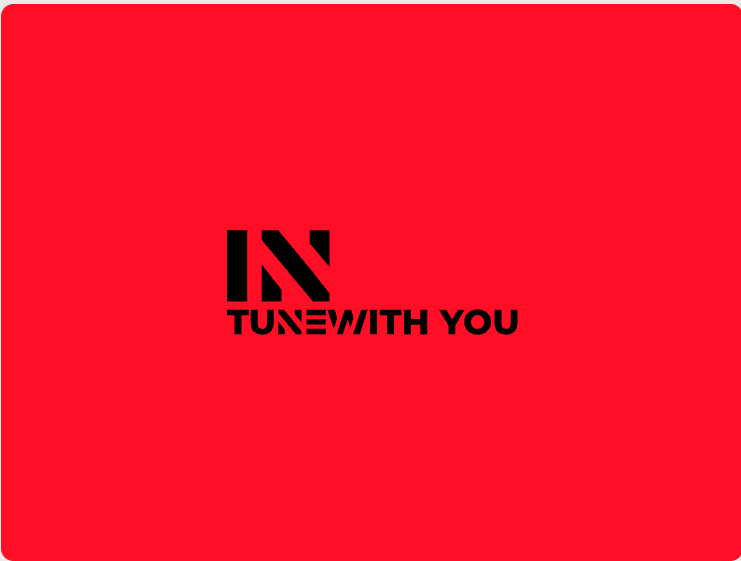
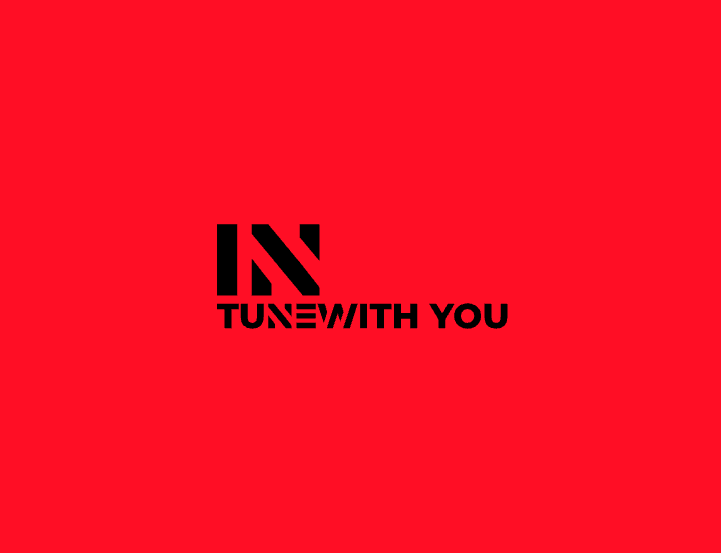
Add header element

diff --git a/style.css b/style.css
@@ -2,23 +2,39 @@
 
 * {
     box-sizing: border-box;
-    padding: 0;
-    margin: 0;
-    font-family: Montserrat;
+    padding: 0%;
+    margin: 0%;
+    
 
 }
 body {
     background: #ff0e25;
-}
-a {
-    text-decoration: none;
-    color: inherit;
-}
-nav {
+    width: 100%;
+    height: 100vh;
+    font-family: 'Montserrat' sans-serif;
     display: flex;
     align-items: center;
-    justify-content: space-between;
-    background: #ff0e25;
-    padding: 20px 20px;
-    color: #ff0e25;
+    justify-content: center;
+}
+
+
+
+header {
+    width: 85%;
+    height: 95%;
+    border: 1px solid  #000000;
+    display: flex;
+}
+
+header .menu_side, .song_side {
+    position: relative;
+    width: 25%;
+    height: 90%;
+    /*border: 1px solid #000000;*/
+    background-color: #c50818;
+    box-shadow: 5px 0px 2px #ff0e25
+}
+header .song_side {
+    width: 75%;
+    background:  #ff0e25;
 }

diff --git a/index.html b/index.html
@@ -7,13 +7,14 @@
     <title>InTuneWithYou</title>
 </head>
 <body>
-<nav>
-    <img src="Images/Domain tag.png" width="100" class="logo">
+<header>
+
+    <div class="menu_side"></div>
+    <div class="song_side"></div>
 
 
-
-</nav>
+</header>
  
-    
+
 </body>
 </html>
